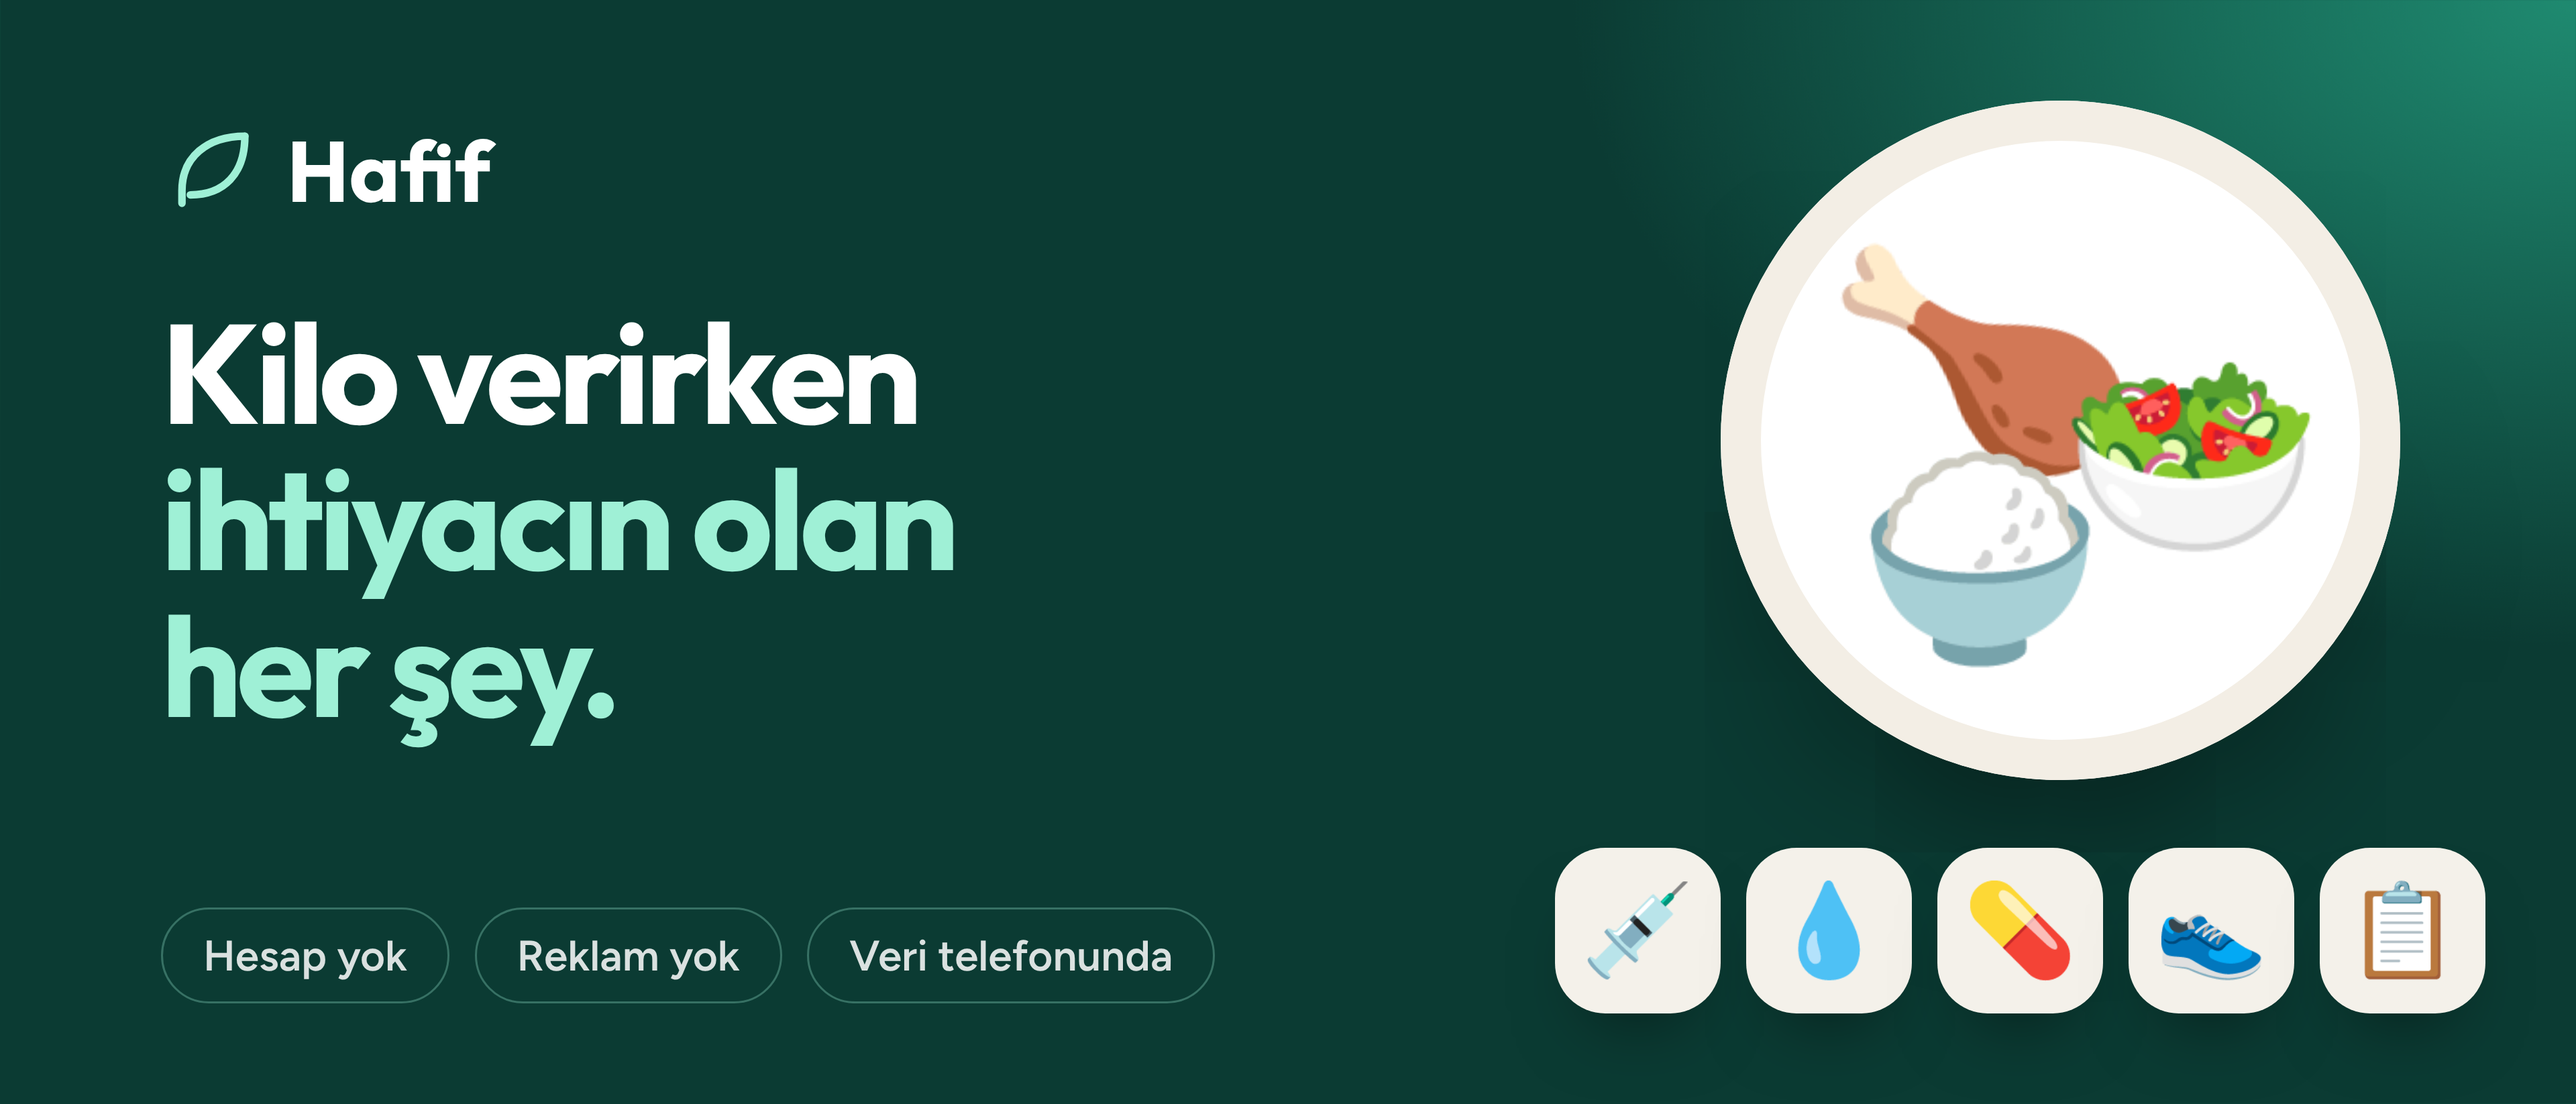
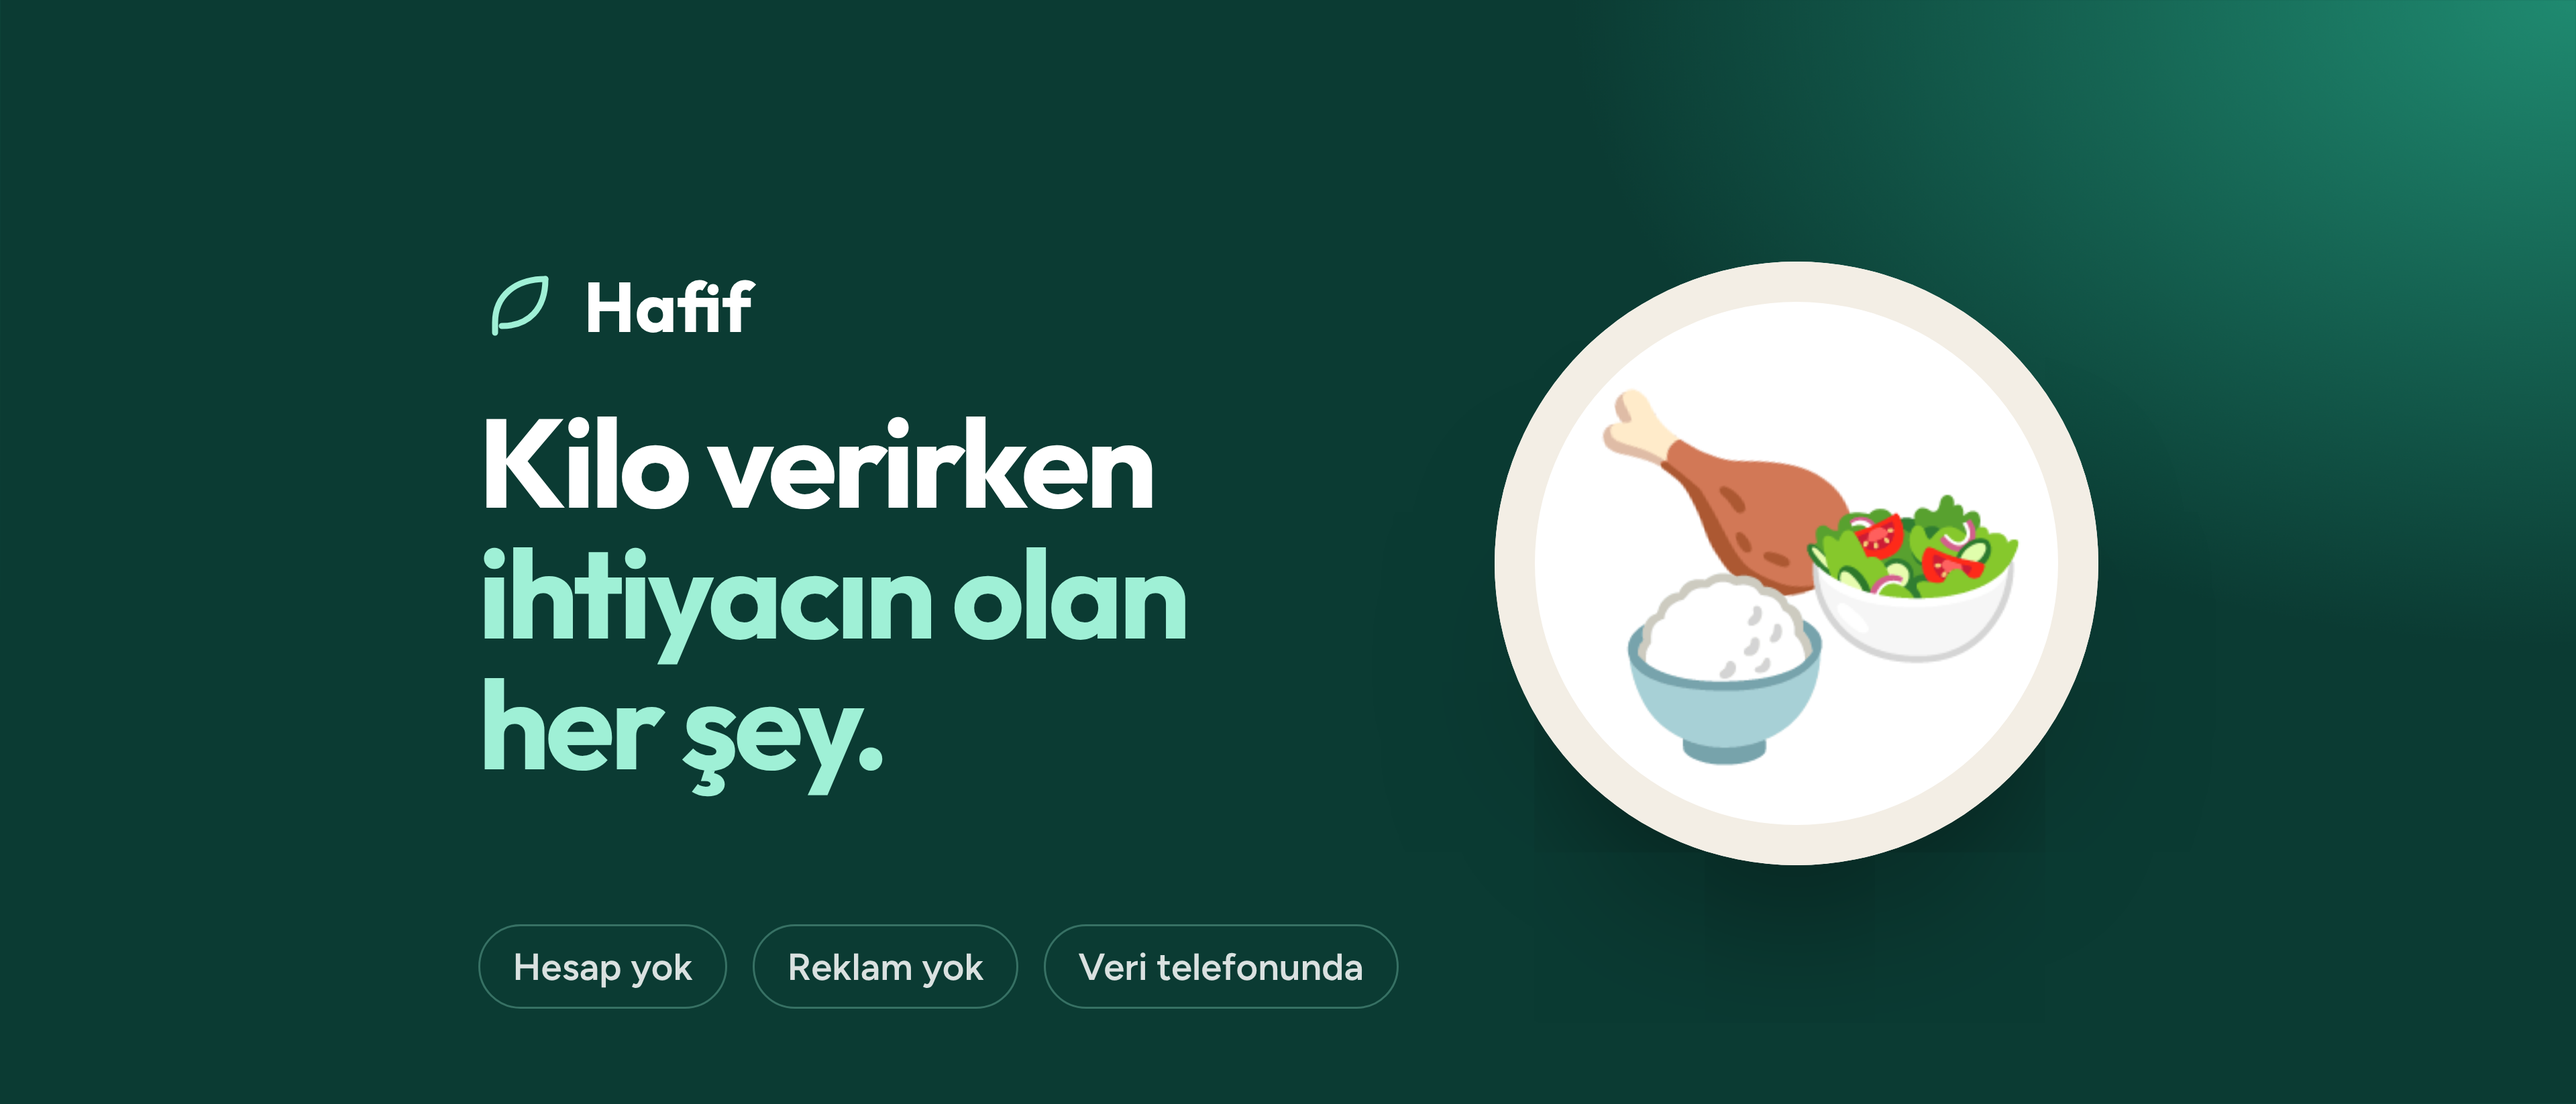
Header afişi: içerik telefonun kırptığı kenarlardan uzak, ortadaki güvenli alanda
Claude-Session: https://claude.ai/code/session_01EnGhTyvfhX7HDYsiT5qQ96

diff --git a/magaza/kaynak/aso/ios-afis.js b/magaza/kaynak/aso/ios-afis.js
@@ -22,9 +22,10 @@ ${css}</style></head><body><div class="s">${govde}</div></body></html>`;
 const baslik = `<div class="lg">${leaf}Hafif</div><h1>Kilo verirken<br><em>ihtiyacın olan<br>her şey.</em></h1>`;
 const tr = `<div class="tr"><span>Hesap yok</span><span>Reklam yok</span><span>Veri telefonunda</span></div>`;
 const AFIS = [
-  // Header 3840×1646 = 1024×439 × 3,75
-  ['header-3840x1646', 3840, 1646, html(1024, 439, 3.75, `<div class="l">${baslik}</div>${tr}<div style="position:absolute;right:70px;top:40px">${plate(270)}</div>${chips}`,
-    '.l{position:absolute;left:64px;top:46px}.tr{left:64px;bottom:40px}.plate{position:relative;display:block}.chips{right:36px;bottom:36px}')],
+  // Header 3840×1646 = 1024×439 × 3,75. Apple telefonda iki yandan ~%15 kırpar, üstüne geri/paylaş düğmeleri ve Dynamic Island gelir:
+  // içerik ortadaki ~%64'te (x 185–839) ve üstten 100 px aşağıda tutulur; kenarlar yalnızca zemin.
+  ['header-3840x1646', 3840, 1646, html(1024, 439, 3.75, `<div class="l">${baslik}</div>${tr}<div style="position:absolute;right:190px;top:104px">${plate(240)}</div>`,
+    '.l{position:absolute;left:190px;top:104px}.lg{font-size:28px}.lg svg{width:32px;height:32px}h1{margin-top:18px;font-size:50px}.tr{left:190px;bottom:38px}.tr span{font-size:15px;padding:7px 13px}.plate{position:relative;display:block}')],
   // Search Results 1920×1280 = 960×640 × 2
   ['arama-1920x1280', 1920, 1280, html(960, 640, 2, `<div class="l">${baslik}</div>${tr}<div style="position:absolute;right:56px;top:70px">${plate(330)}</div>${chips}`,
     '.l{position:absolute;left:60px;top:70px}h1{font-size:60px}.tr{left:60px;bottom:56px}.plate{position:relative;display:block}.chips{right:46px;bottom:48px}')],
